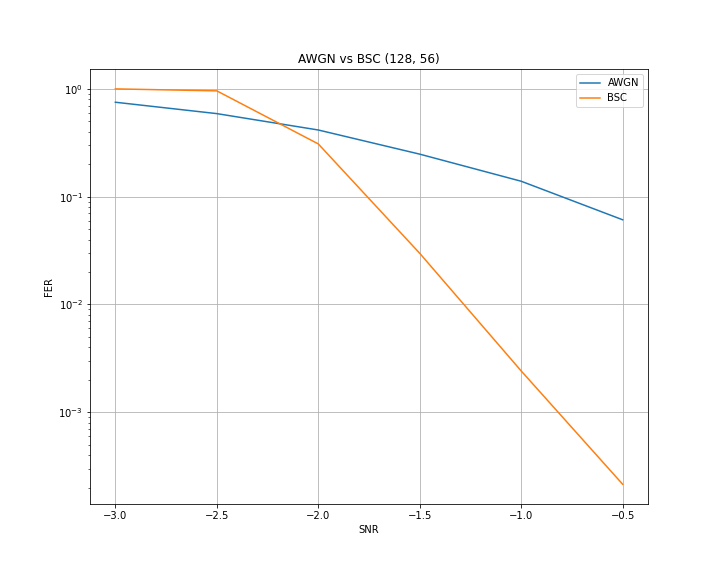
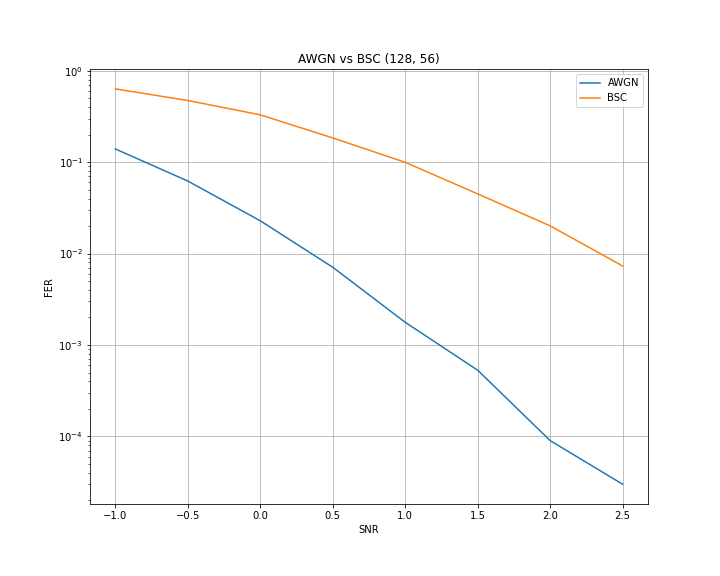
Bsc channel

diff --git a/src/BpskBscChannel.cpp b/src/BpskBscChannel.cpp
@@ -1,8 +1,9 @@
-
+#include <iostream>
 #include <random>
-#include "../include/BscChannel.h"
+#include "../include/BpskBscChannel.h"
+#include "../include/CommonTransformations.h"
 
-BscChannel::BscChannel(double coderate) : BaseChannel() {
+BpskBscChannel::BpskBscChannel(double coderate) : BaseChannel() {
 	std::bernoulli_distribution bernoulli_dist(0.5);
 	_bernoulli_dist = bernoulli_dist;
 	
@@ -10,36 +11,20 @@ BscChannel::BscChannel(double coderate) : BaseChannel() {
 	_fixedLlr = 1.0;
 }
 
-double snrToEbN0(double snr, double coderate) {
-	return snr - 10 * log10(coderate);
-}
 
-double ebnoToPErr(double ebno) {
-	return 1.0 / 2 * erfc(sqrt(ebno));
-}
-
-
-void BscChannel::SetSnr(double snr) {
+void BpskBscChannel::SetSnr(double snr) {
 	BaseChannel::SetSnr(snr);
 
-	double p = ebnoToPErr(snrToEbN0(_snr, _coderate));
+	//double p = ebnoToPErr(snrToEbN0(_snr, _coderate));
+	double p = ebnoToPErr(snrToSigma(snr));
+
 	_fixedLlr = log((1 - p) / p);
 	std::bernoulli_distribution b(p);
 	_bernoulli_dist = b;
 }
 
-double LlrToP12(double llr) {
-	if (llr > 300.0)
-		return 0.0;
 
-	if (llr < -300.0)
-		return 1.0;
-
-	return 1.0 / (1 + exp(llr));
-}
-
-
-std::vector<double> BscChannel::Pass(std::vector<int> codeword) {
+std::vector<double> BpskBscChannel::Pass(std::vector<int> codeword) {
 	size_t n = codeword.size();
 	std::vector<double> output(n, 0);
 

diff --git a/src/BpskAwgnChannel.cpp b/src/BpskAwgnChannel.cpp
@@ -1,10 +1,7 @@
 
 #include <random>
 #include "../include/BpskAwgnChannel.h"
-
-double snrToSigma(double snr) {
-	return sqrt(pow(10, -snr / 10) / 2);
-}
+#include "../include/CommonTransformations.h"
 
 BpskAwgnChannel::BpskAwgnChannel() : BaseChannel() {
 	_snr = 1.0; // trash value
@@ -14,23 +11,11 @@ BpskAwgnChannel::BpskAwgnChannel() : BaseChannel() {
 	_normal_dist = normal_dist;
 }
 
-
-
 void BpskAwgnChannel::SetSnr(double snr) {
 	BaseChannel::SetSnr(snr);
 	_sigma = snrToSigma(snr);
 	std::normal_distribution<double> normal_dist(0, _sigma);
 	_normal_dist = normal_dist;
-}
-
-double LlrToP1(double llr) {
-	if (llr > 300.0)
-		return 0.0;
-
-	if (llr < -300.0)
-		return 1.0;
-
-	return 1.0 / (1 + exp(llr));
 }
 
 double InputToLlr(double input, double sigma) {
@@ -42,10 +27,12 @@ int ModulateBpsk(int input) {
 }
 
 std::vector<double> BpskAwgnChannel::Pass(std::vector<int> codeword) {
+
 	size_t n = codeword.size();
-	std::vector<double> output(n, 0);
+	std::vector<double> output(n, 0.0);
 	for (size_t i = 0; i < n; i++) {
-		output[i] = ModulateBpsk(codeword[i]) + _normal_dist(_randomDevice);
+		output[i] = ModulateBpsk(codeword[i]);
+		output[i] += _normal_dist(_randomDevice); // return LLRs
 		output[i] = InputToLlr(output[i], _sigma);
 	}
 

diff --git a/src/Test_AwgnBer.cpp b/src/Test_AwgnBer.cpp
@@ -1,0 +1,62 @@
+#include "../include/BpskAwgnChannel.h"
+
+#include <iostream>
+
+int mainasd() {
+	BaseChannel * channelPtr = new BpskAwgnChannel();
+
+	std::vector<int> input = { 0 };
+	std::vector<double> output;
+
+	std::vector<double> snr_array = { -0.25, 0.25, 0.75};
+
+	size_t N = 100000;
+
+
+
+	for (size_t j = 0; j < snr_array.size(); j++)
+	{
+		int count = 0;
+		for (size_t i = 0; i < N; i++)
+		{
+			channelPtr->SetSnr(snr_array[j]);
+
+			output = channelPtr->Pass(input);
+
+			//std::cout << output[0] << std::endl;
+
+			if (output[0] < 0.0) {
+				count++;
+				//std::cout << "adsfasdfafds\n";
+			}
+				
+		}
+
+		std::cout << "SNR: " << snr_array[j] << ", p= " << ((double)count )/ N << std::endl;
+	}
+	
+
+	
+	// sqrt(pow(10, -snr / 10) / 2);
+
+	/*double sigma = 0.727755;
+	std::normal_distribution<double> normal_dist(0, sigma);
+	std::random_device rd{};
+	std::mt19937 gen{ rd() };
+
+	int N = 100000;
+	int count = 0;
+	double x = 0.0;
+	for (size_t i = 0; i < N; i++)
+	{
+		x = 1.0 + normal_dist(gen);
+
+		if (x < 0.0) {
+			count++;
+		}
+	}
+
+	std::cout << "P: " << (double)count / N << std::endl;*/
+
+	return 0;
+}

diff --git a/src/Simulate.cpp b/src/Simulate.cpp
@@ -25,7 +25,8 @@
 #include "../include/ConfigReading.h"
 #include "../include/Exceptions.h"
 #include "../include/BpskAwgnChannel.h"
-#include "../include/BscChannel.h"
+#include "../include/BpskBscChannel.h"
+#include "../include/QpskBscChannel.h"
 
 int ExtractInt(std::unordered_map<std::string, std::string> map, std::string key, std::string section) {
 	if (map.count(key) <= 0)
@@ -244,8 +245,10 @@ BaseSimulator * BuildSimulator(
 		BaseChannel * channelPtr;
 		if (channelStr == "BPSK-AWGN")
 			channelPtr = new BpskAwgnChannel();
-		else if (channelStr == "BSC")
-			channelPtr = new BscChannel((double)codePtr->k() / codePtr->N());
+		else if (channelStr == "BPSK-BSC")
+			channelPtr = new BpskBscChannel((double)codePtr->k() / codePtr->N());
+		//else if (channelStr == "BPSK-BSC")
+			//channelPtr = new QpskBscChannel();
 		else
 			throw UnknownChannelException("Unknown channel: " + channelStr + " in simulator params section");
 

diff --git a/src/CommonTransformations.cpp b/src/CommonTransformations.cpp
@@ -1,0 +1,26 @@
+#include "../include/CommonTransformations.h"
+
+#include <cmath>
+
+double snrToSigma(double snr) {
+	return sqrt(pow(10, -snr / 10) / 2);
+}
+
+double snrToEbN0(double snr, double coderate) {
+	return snr - 10 * log10(coderate);
+}
+
+double ebnoToPErr(double sigma) {
+	//return 1.0 / 2 * erfc(sqrt(ebno));
+	return 1.0 / 2 * (1 + erf(-1.0 / sigma / sqrt(2)));
+}
+
+double LlrToP1(double llr) {
+	if (llr > 300.0)
+		return 0.0;
+
+	if (llr < -300.0)
+		return 1.0;
+
+	return 1.0 / (1 + exp(llr));
+}

diff --git a/include/BpskBscChannel.h b/include/BpskBscChannel.h
@@ -3,7 +3,7 @@
 #include "BaseChannel.h"
 #include <vector>
 
-class BscChannel : public BaseChannel {
+class BpskBscChannel : public BaseChannel {
 protected:
 	std::random_device _randomDevice;
 	std::bernoulli_distribution _bernoulli_dist;
@@ -11,8 +11,8 @@ protected:
 	double _fixedLlr;
 
 public:
-	BscChannel(double coderate);
-	~BscChannel() {};
+	BpskBscChannel(double coderate);
+	~BpskBscChannel() {};
 	std::vector<double> Pass(std::vector<int> codeword) override;
 	void SetSnr(double snr) override;
 };

diff --git a/include/QpskBscChannel.h b/include/QpskBscChannel.h
@@ -1,0 +1,19 @@
+//#pragma once
+//
+//#include "BaseChannel.h"
+//#include <vector>
+//#include <random>
+//
+//class QpskBscChannel : public BaseChannel {
+//protected:
+//	std::random_device _randomDevice;
+//	std::bernoulli_distribution _bernoulli_dist;
+//	double _coderate;
+//	double _fixedLlr;
+//
+//public:
+//	QpskBscChannel(double coderate);
+//	~QpskBscChannel() {};
+//	std::vector<double> Pass(std::vector<int> codeword) override;
+//	void SetSnr(double snr) override;
+//};

diff --git a/src/Test_ScTreeMaker.cpp b/src/Test_ScTreeMaker.cpp
@@ -26,7 +26,7 @@ std::string VecToStr1(std::vector<double> vec) {
 }
 
 
-int main() {
+int main3() {
 	std::vector<double> output = { 0.010119, 0.269376, 0.714051, 0.025632, 0.421688, 0.062596, 0.928681, 0.009483, 0.929548, 0.969867, 0.948404, 0.005403, 0.266173, 0.957171, 0.011451, 0.715712, };
 	auto code = new PolarCode(4, 7, { 0, 1, 2, 4, 8, 3, 5, 9, 6, 10, 12, 7, 11, 13, 14, 15 }, {});
 	auto decoderPtr = new ScDecoderTreeMaker(code, 1.0);

diff --git a/src/BaseSimulator.cpp b/src/BaseSimulator.cpp
@@ -10,8 +10,8 @@ BaseSimulator::BaseSimulator(PolarCode * codePtr, Encoder * encoderPtr, BaseChan
 
 double BaseSimulator::GetSigma(double snr, double R) {
 	double result = sqrt(pow(10, -snr / 10) / 2);
-	if (_isSigmaDependOnR)
-		result /= R;
+	//if (_isSigmaDependOnR)
+		//result /= R;
 
 	return result;
 }

diff --git a/src/MonteCarloSimulator.cpp b/src/MonteCarloSimulator.cpp
@@ -102,8 +102,8 @@ SimulationIterationResults MonteCarloSimulator::Run(double snr)
 		///////////
 #endif //PARALLEL_DECODER
 
-		if (tests % 1000 == 0)
-			std::cout << tests << std::endl;
+		//if (tests % 1000 == 0)
+			//std::cout << tests << std::endl;
 		
 		if (decoded != word)
 			wrong_dec += 1;

diff --git a/src/main.cpp b/src/main.cpp
@@ -12,7 +12,7 @@ void PrintUsage() {
 #endif
 }
 
-int main3(int argc, char* argv[]) {
+int main(int argc, char* argv[]) {
 
 	if (argc != 2) {
 		PrintUsage();
@@ -21,5 +21,5 @@ int main3(int argc, char* argv[]) {
 		
 	Simulate(argv[1]);
 
-
+	return 0;
 }

diff --git a/include/CommonTransformations.h b/include/CommonTransformations.h
@@ -1,0 +1,10 @@
+#pragma once
+
+
+double snrToSigma(double snr);
+
+double snrToEbN0(double snr, double coderate);
+
+double ebnoToPErr(double sigma);
+
+double LlrToP1(double llr);
